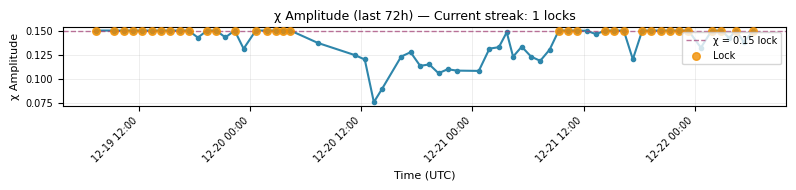
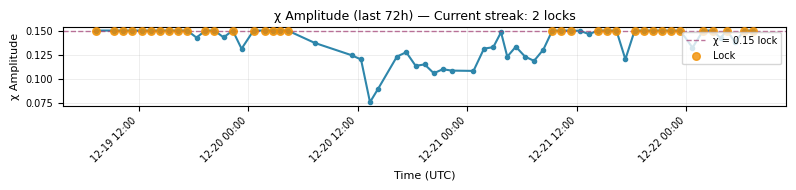
Vault Narrator: Auto-update 2025-12-22 08:07 UTC

diff --git a/LATEST_VAULT_STATUS.md b/LATEST_VAULT_STATUS.md
@@ -1,24 +1,26 @@
 # 🔐 VAULT STATUS REPORT
 
-**Generated:** 2025-12-22 07:08 UTC  
+**Generated:** 2025-12-22 08:07 UTC  
 **Data Source:** `data/cme_heartbeat_log_2025_12.csv`
 
 ---
 
 ## ⚡ CURRENT STATUS: ACTIVE
 
-**Latest χ = 0.15 Streak Count:** 1 consecutive readings  
-**Last Lock Timestamp:** 2025-12-22 06:20:00 UTC  
+**Latest χ = 0.15 Streak Count:** 2 consecutive readings  
+**Last Lock Timestamp:** 2025-12-22 07:20:00 UTC  
+**First Lock in Streak:** 2025-12-22 06:20:00 UTC  
+**Streak Duration:** 1.0 hours  
 
 **Latest Solar Wind Conditions:**  
-- Density: 2.78 p/cm³  
-- Speed: 669.6 km/s  
+- Density: 2.92 p/cm³  
+- Speed: 671.3 km/s  
 
 ---
 
 ## 🌞 NOAA SPACE WEATHER SUMMARIES
 
-- [SRS Report](reports/latest_srs.md) (fetched: 2025-12-22 07:07 UTC)  
+- [SRS Report](reports/latest_srs.md) (fetched: 2025-12-22 08:07 UTC)  
 - F10.7 Report: *not available*  
 
 ---
@@ -39,7 +41,6 @@
 
 | Time (UTC)          | χ Amplitude | Density (p/cm³) | Speed (km/s) | χ Status |
 |---------------------|-------------|-----------------|--------------|----------|
-| 2025-12-21 11:19:00 | 0.1500 | 3.51 | 623.0 | ✅ LOCK |
 | 2025-12-21 12:21:00 | 0.1497 | 3.66 | 620.7 | — |
 | 2025-12-21 13:20:00 | 0.1463 | 3.76 | 688.1 | — |
 | 2025-12-21 14:20:00 | 0.1500 | 2.47 | 656.8 | ✅ LOCK |
@@ -59,6 +60,7 @@
 | 2025-12-22 04:27:00 | 0.1500 | 3.64 | 697.9 | ✅ LOCK |
 | 2025-12-22 05:19:00 | 0.1380 | 4.01 | 720.4 | — |
 | 2025-12-22 06:20:00 | 0.1500 | 2.78 | 669.6 | ✅ LOCK |
+| 2025-12-22 07:20:00 | 0.1500 | 2.92 | 671.3 | ✅ LOCK |
 
 ---
 
